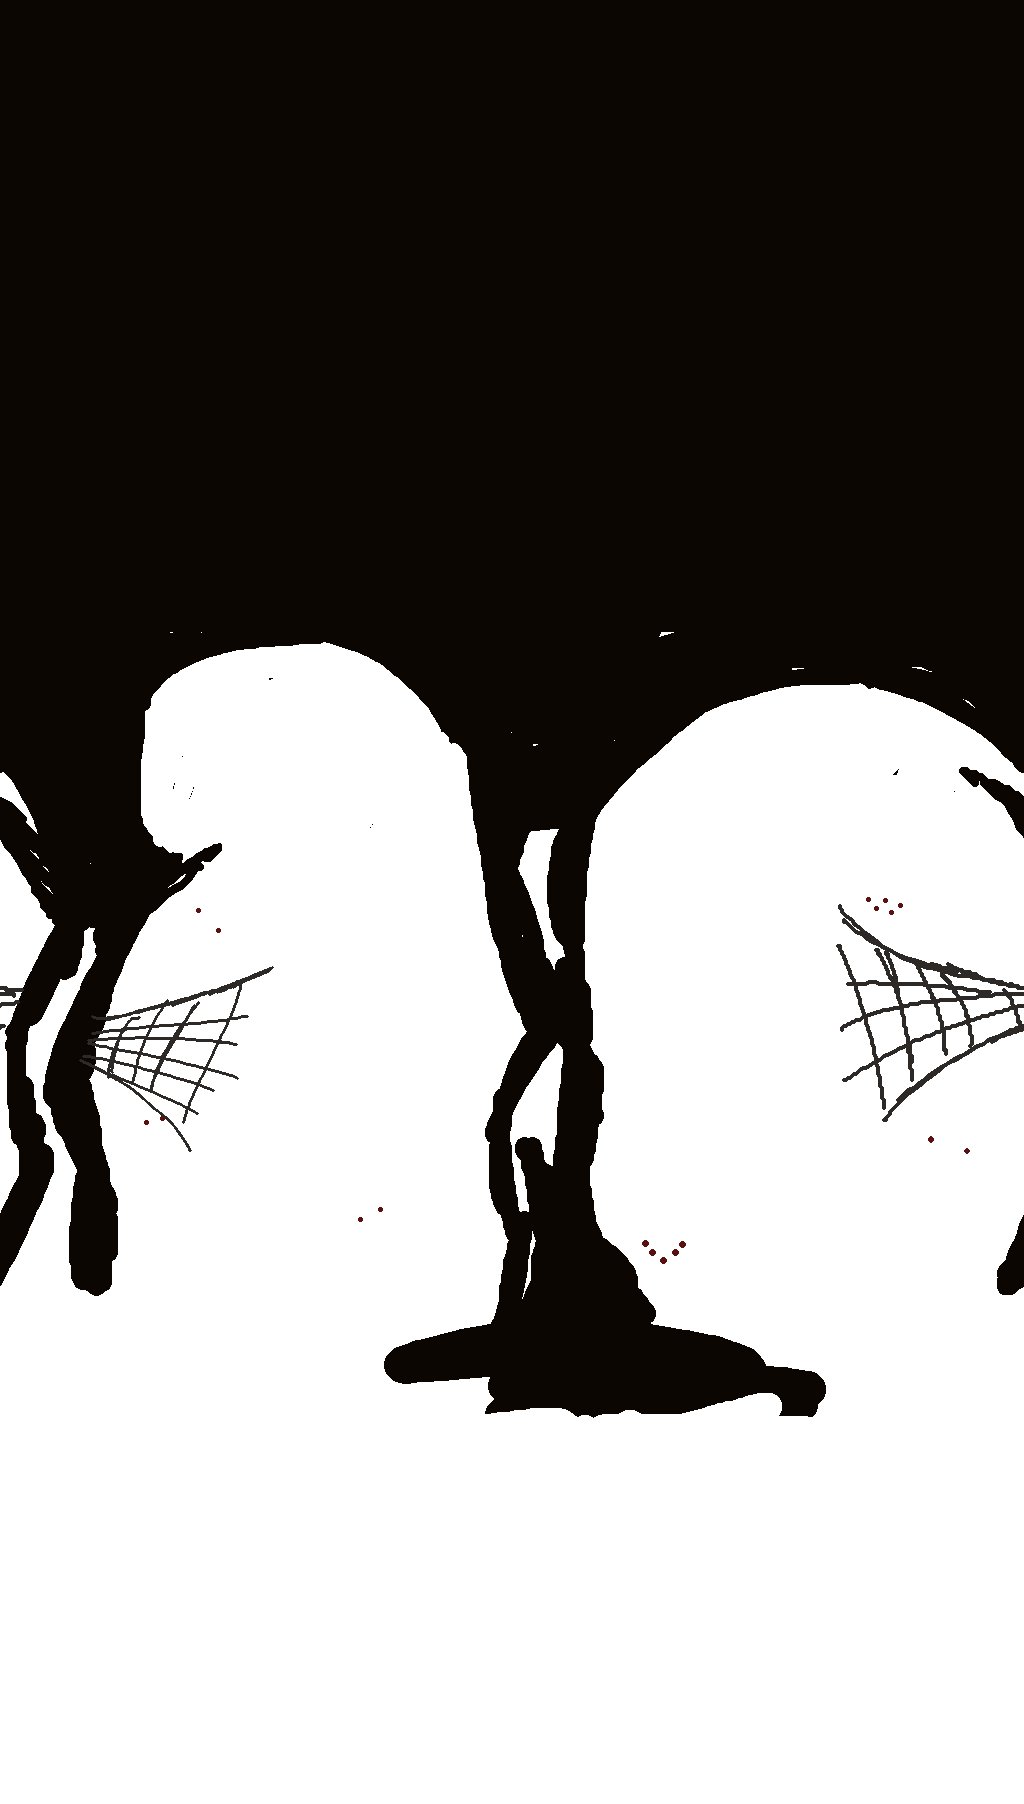
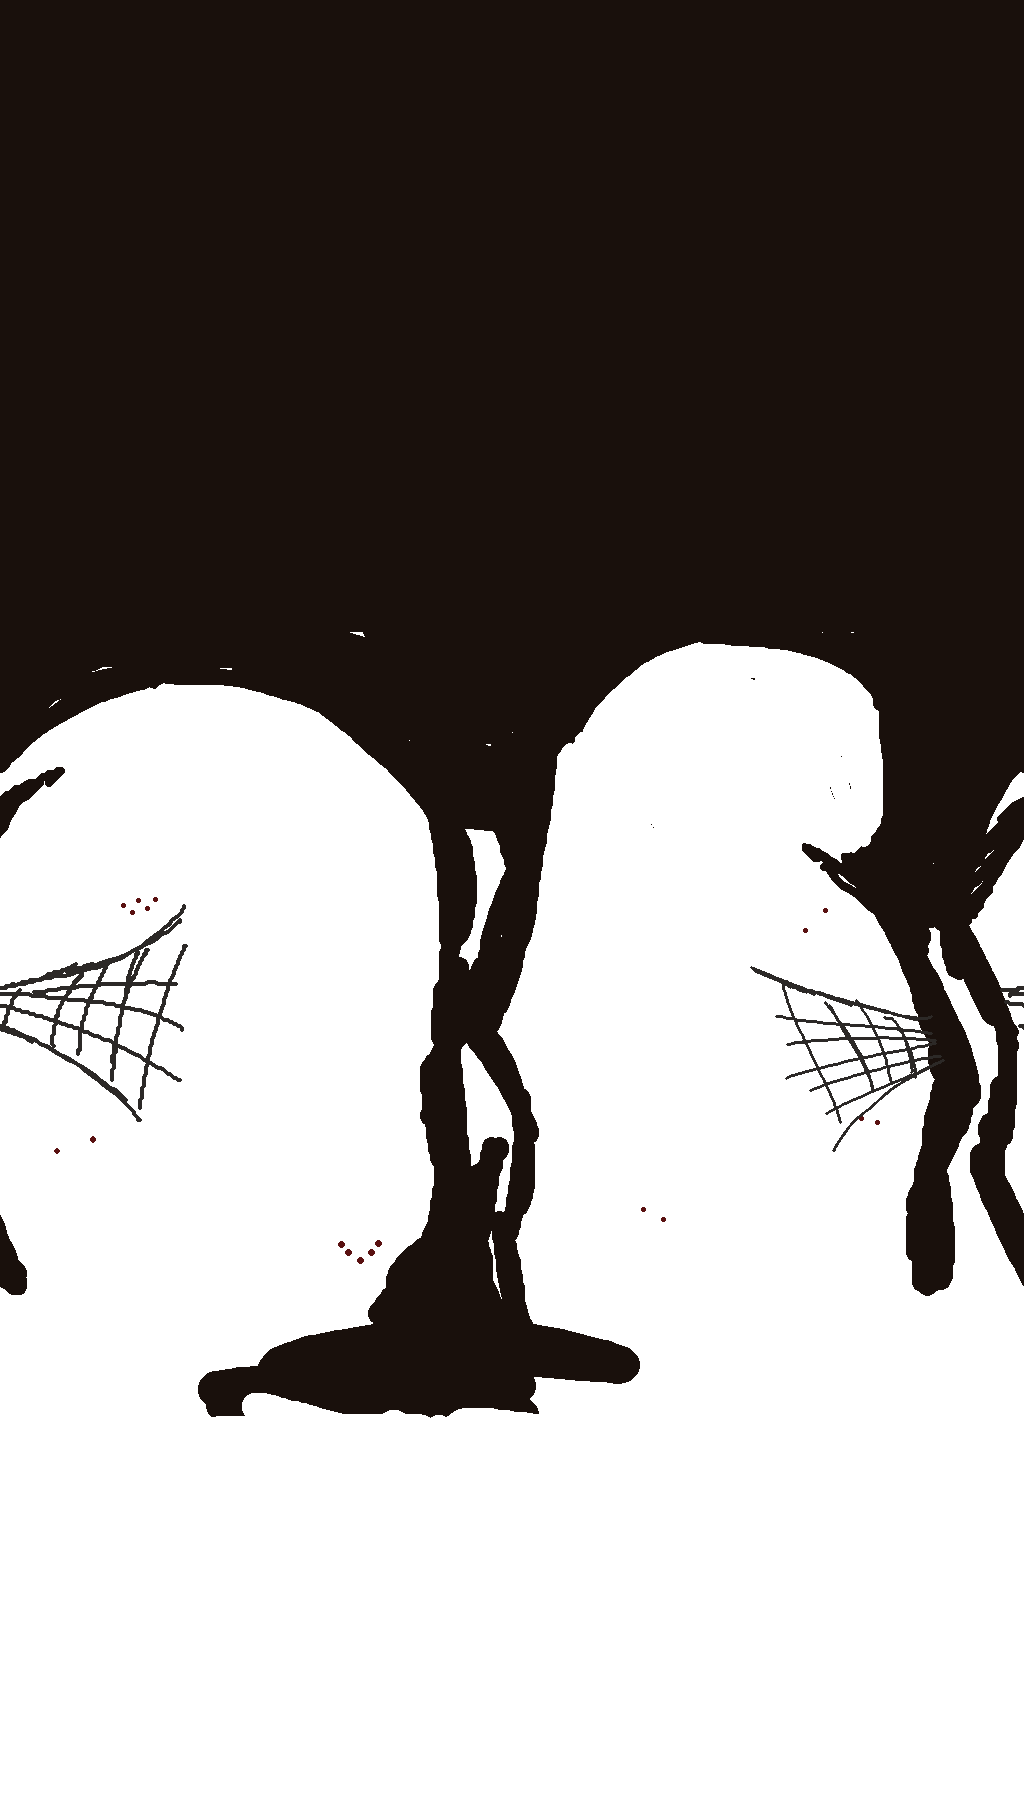
Spider grotto gen tweaks

Changed region(s): [[0.0, 0.3415, 1.0, 0.8071]]

diff --git a/Content/Generation/SpiderCave.cs b/Content/Generation/SpiderCave.cs
@@ -85,6 +85,7 @@ namespace Spooky.Content.Generation
                         if (percent > blurPercent && Y >= origin.Y)
                         {
                             WorldGen.TileRunner(X, Y + 30, WorldGen.genRand.Next(25, 35), WorldGen.genRand.Next(25, 35), TileID.Stone, true, 0f, 0f, true, true);
+                            //SpookyWorldMethods.ModifiedTileRunner(X, Y + 30, WorldGen.genRand.Next(25, 35), WorldGen.genRand.Next(25, 35), TileID.Stone, 0, true, 0f, 0f, true, false, true, false);
                         }
                     }
                 }
@@ -123,7 +124,7 @@ namespace Spooky.Content.Generation
                         float cavePerlinValueWalls = SpookyWorldMethods.PerlinNoise2D(X / 800f, Y / 900f, 5, cavePerlinSeedWalls) + 0.5f + horizontalOffsetNoiseWalls;
                         float cavePerlinValue2Walls = SpookyWorldMethods.PerlinNoise2D(X / 800f, Y / 900f, 5, unchecked(cavePerlinSeedWalls - 1)) + 0.5f;
                         float caveNoiseMapWalls = (cavePerlinValueWalls + cavePerlinValue2Walls) * 0.5f;
-                        float caveCreationThresholdWalls = horizontalOffsetNoiseWalls * 3.5f + 0.235f;
+                        float caveCreationThresholdWalls = horizontalOffsetNoiseWalls * 8.5f + 0.235f;
 
                         if (caveNoiseMapWalls * caveNoiseMapWalls > caveCreationThresholdWalls)
                         {
@@ -200,6 +201,13 @@ namespace Spooky.Content.Generation
                         {
                             WorldGen.KillTile(X, Y);
                         }
+
+                        //delete random single floating walls
+                        if (Main.tile[X, Y - 1].WallType <= 0 && Main.tile[X, Y + 1].WallType <= 0 &&
+                        Main.tile[X - 1, Y].WallType <= 0 && Main.tile[X + 1, Y].WallType <= 0)
+                        {
+                            WorldGen.KillWall(X, Y);
+                        }
                     }
                 }
             }
@@ -235,7 +243,7 @@ namespace Spooky.Content.Generation
         //worldgenning tasks
         public override void ModifyWorldGenTasks(List<GenPass> tasks, ref double totalWeight)
         {  
-            int GenIndex1 = tasks.FindIndex(genpass => genpass.Name.Equals("Cactus, Palm Trees, & Coral"));
+            int GenIndex1 = tasks.FindIndex(genpass => genpass.Name.Equals("Oasis"));
             if (GenIndex1 == -1) 
             {
                 return;

diff --git a/Content/Generation/SpookyWorldMethods.cs b/Content/Generation/SpookyWorldMethods.cs
@@ -9,6 +9,7 @@ using System.Linq;
 using System.Collections.Generic;
 
 using Spooky.Content.Tiles.Catacomb;
+using Spooky.Content.Tiles.SpookyBiome;
 
 namespace Spooky.Content.Generation
 {
@@ -160,8 +161,8 @@ namespace Spooky.Content.Generation
 		}
 
 		//this is basically a heavily modified version of vanillas tile runner code (dreadful)
-		public static void ModifiedTileRunner(int i, int j, double strength, int steps, int tileType, int wallType, int wallType2, bool addTile = false, 
-		float speedX = 0f, float speedY = 0f, bool noYChange = false, bool placeWalls = false, bool SpookyWalls = false, bool replaceWalls = true, bool noTiles = false)
+		public static void ModifiedTileRunner(int i, int j, double strength, int steps, int tileType, int wallType, bool addTile = false, 
+		float speedX = 0f, float speedY = 0f, bool noYChange = false, bool placeWalls = false, bool replaceWalls = true, bool noTiles = false)
 		{
 			double num = strength;
 			float num2 = (float)steps;
@@ -263,14 +264,14 @@ namespace Spooky.Content.Generation
 								}
 
 								//place walls
-								if (SpookyWalls)
+								if (wallType == ModContent.WallType<SpookyGrassWall>())
 								{
 									//this loop is for placing walls in the underground part of the spooky biome
 									for (int WallY = (int)Main.worldSurface; WallY < l; WallY++)
 									{
 										if (placeWalls)
 										{
-											Main.tile[k, WallY + 6].WallType = (ushort)wallType2;
+											Main.tile[k, WallY + 6].WallType = 0;
 										}
 									}
 

diff --git a/Content/Generation/Catacombs.cs b/Content/Generation/Catacombs.cs
@@ -736,7 +736,7 @@ namespace Spooky.Content.Generation
                     if (!tile.HasTile && tile.WallType == ModContent.WallType<CatacombBrickWall1>() && WorldGen.genRand.NextBool(250))
                     {
                         SpookyWorldMethods.ModifiedTileRunner(X, Y, WorldGen.genRand.Next(8, 15), 1, ModContent.TileType<CatacombBrick1>(),
-                        ModContent.WallType<CatacombGrassWall1>(), ModContent.WallType<CatacombGrassWall1>(), false, 0f, 0f, true, false, false, true, true);
+                        ModContent.WallType<CatacombGrassWall1>(), false, 0f, 0f, true, false, true, true);
                     }
 
                     //kill vines if the tile above it is not valid
@@ -761,7 +761,7 @@ namespace Spooky.Content.Generation
                     if (!tile.HasTile && tile.WallType == ModContent.WallType<CatacombBrickWall2>() && WorldGen.genRand.NextBool(250))
                     {
                         SpookyWorldMethods.ModifiedTileRunner(X, Y, WorldGen.genRand.Next(10, 25), 1, ModContent.TileType<CatacombBrick2>(), 
-                        ModContent.WallType<CatacombGrassWall2>(), ModContent.WallType<CatacombGrassWall2>(), false, 0f, 0f, true, false, false, true, true);
+                        ModContent.WallType<CatacombGrassWall2>(), false, 0f, 0f, true, false, true, true);
                     }
                 }
             }

diff --git a/Content/Generation/SpookyForest.cs b/Content/Generation/SpookyForest.cs
@@ -94,7 +94,7 @@ namespace Spooky.Content.Generation
                 for (int cutOff = 0; cutOff < Main.maxTilesX / 28; cutOff += 50)
                 {
                     SpookyWorldMethods.ModifiedTileRunner(PositionX, PositionY + Y + cutOff, (double)Size + Y / 2, 1, 
-                    ModContent.TileType<SpookyDirt>(), ModContent.WallType<SpookyGrassWall>(), 0, true, 0f, 0f, true, true, true, true, false);
+                    ModContent.TileType<SpookyDirt>(), ModContent.WallType<SpookyGrassWall>(), true, 0f, 0f, true, true, true, false);
                 }
             }
 

diff --git a/Content/Backgrounds/SpiderCave/SpiderCaveBG.cs b/Content/Backgrounds/SpiderCave/SpiderCaveBG.cs
@@ -127,12 +127,12 @@ namespace Spooky.Content.Backgrounds.SpookyHell
                     }
                     case 1:
                     {
-                        zero.Y += 20f;
+                        zero.Y += 30f;
                         break;
                     }
                     case 2:
                     {
-                        zero.Y -= 20f;
+                        zero.Y += 35f;
                         break;
                     }
                     case 3:
